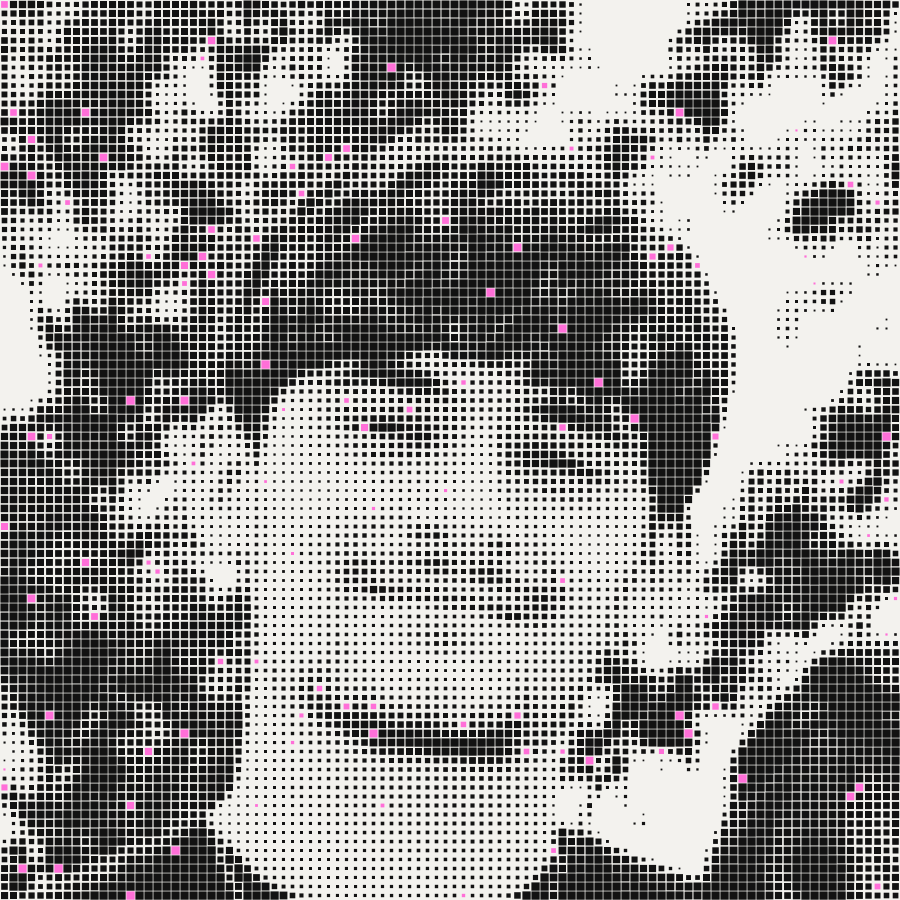
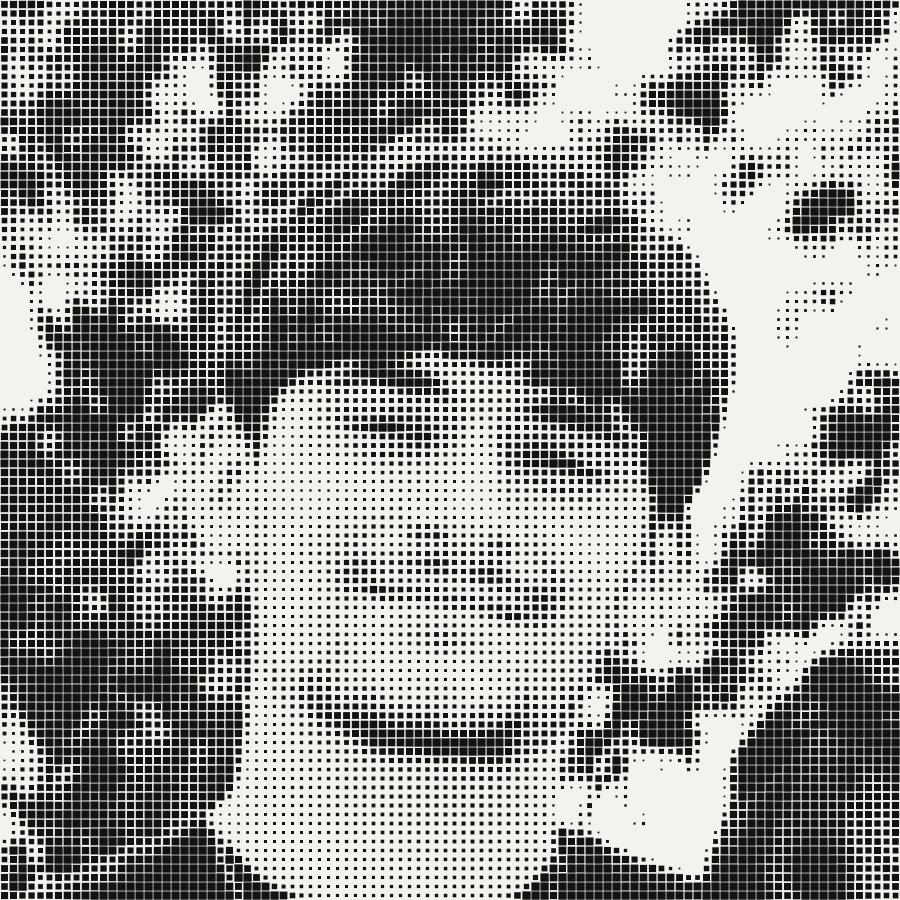
Cursor propio (píxel que se vuelve la O sobre lo que se toca, solo con mouse) y puntitos rosas que se mueven en los retratos de Nosotros

diff --git a/src/motion/cursor.ts b/src/motion/cursor.ts
@@ -1,0 +1,48 @@
+/**
+ * El cursor de Roda: un píxel de tinta (el cuadradito del video) que sigue al mouse con un poco de inercia.
+ * Sobre links y botones se convierte en la O del logo (un anillo); al apretar se achica un poco.
+ * En los campos de texto vuelve el cursor de siempre, para escribir.
+ * Solo con mouse: en celulares y pantallas táctiles no existe. Sin movimiento, sigue al mouse sin demora.
+ * Se mueve con transform (nada de top/left) y se dibuja en modo diferencia, así se ve sobre fotos claras y oscuras.
+ */
+const INTERACTIVO = 'a[href], button, [role="button"], [role="radio"], [role="checkbox"], [role="switch"], summary, label, [data-cursor="anillo"], .tarjeta, .panel';
+const TEXTO = 'input:not([type="radio"]):not([type="checkbox"]), textarea, select, [contenteditable="true"]';
+
+let listo = false;
+export const iniciarCursor = () => {
+  if (listo || !matchMedia('(hover: hover) and (pointer: fine)').matches) return;
+  listo = true;
+  const quieto = matchMedia('(prefers-reduced-motion: reduce)').matches;
+
+  const cursor = document.createElement('div');
+  cursor.className = 'cursor-roda';
+  cursor.setAttribute('aria-hidden', 'true');
+  cursor.innerHTML = '<span class="cursor-pixel"></span><span class="cursor-anillo"></span>';
+  document.body.appendChild(cursor);
+  document.documentElement.classList.add('con-cursor');
+
+  let x = -100, y = -100, cx = -100, cy = -100, cuadro = 0, visto = false;
+  const pintar = () => {
+    // Inercia: cada cuadro recorre una parte del camino que falta (sin movimiento, llega de una)
+    cx += (x - cx) * (quieto ? 1 : 0.28);
+    cy += (y - cy) * (quieto ? 1 : 0.28);
+    cursor.style.transform = `translate3d(${cx}px, ${cy}px, 0)`;
+    cuadro = Math.abs(x - cx) + Math.abs(y - cy) > 0.1 ? requestAnimationFrame(pintar) : 0;
+  };
+
+  addEventListener('pointermove', (e) => {
+    if (e.pointerType !== 'mouse') return;
+    x = e.clientX; y = e.clientY;
+    if (!visto) { visto = true; cx = x; cy = y; cursor.classList.add('visible'); }
+    const el = e.target as Element | null;
+    const sobreTexto = !!el?.closest?.(TEXTO);
+    cursor.classList.toggle('escribiendo', sobreTexto);
+    cursor.classList.toggle('sobre', !sobreTexto && !!el?.closest?.(INTERACTIVO));
+    if (!cuadro) cuadro = requestAnimationFrame(pintar);
+  }, { passive: true });
+  addEventListener('pointerdown', () => cursor.classList.add('apretado'), { passive: true });
+  addEventListener('pointerup', () => cursor.classList.remove('apretado'), { passive: true });
+  // Si el mouse sale de la ventana, el cursor se va con él
+  document.addEventListener('pointerleave', () => cursor.classList.remove('visible'));
+  document.addEventListener('pointerenter', () => { if (visto) cursor.classList.add('visible'); });
+};

diff --git a/src/styles/global.css b/src/styles/global.css
@@ -245,3 +245,23 @@ html.scrolleando .tira, html.scrolleando .cartelera, html.scrolleando .etiquetas
 }
 .saltar:focus-visible { transform: none; }
 main:focus { outline: none; }
+
+/* ── El cursor de Roda (src/motion/cursor.ts): solo con mouse ─────────── */
+html.con-cursor, html.con-cursor * { cursor: none !important; }
+html.con-cursor :is(input:not([type="radio"]):not([type="checkbox"]), textarea, [contenteditable="true"]) { cursor: text !important; }
+.cursor-roda {
+  position: fixed; left: 0; top: 0; z-index: 9999; pointer-events: none;
+  /* En modo diferencia: blanco sobre papel se ve tinta, y sobre una foto oscura se ve claro */
+  mix-blend-mode: difference; opacity: 0; transition: opacity 200ms ease;
+}
+.cursor-roda.visible { opacity: 1; }
+.cursor-roda.escribiendo { opacity: 0; }
+.cursor-pixel, .cursor-anillo { position: absolute; display: block; transition: transform 220ms var(--ease-ui), opacity 160ms ease; }
+.cursor-pixel { width: 10px; height: 10px; margin: -5px 0 0 -5px; background: #fff; }
+/* La O del logo: el anillo con el mismo grosor relativo que la O de R○DA */
+.cursor-anillo { width: 46px; height: 46px; margin: -23px 0 0 -23px; border: 8px solid #fff; border-radius: 50%; opacity: 0; transform: scale(0.5); }
+.cursor-roda.sobre .cursor-pixel { opacity: 0; transform: scale(0.4); }
+.cursor-roda.sobre .cursor-anillo { opacity: 1; transform: scale(1); }
+.cursor-roda.apretado .cursor-pixel { transform: scale(0.7); }
+.cursor-roda.sobre.apretado .cursor-anillo { transform: scale(0.82); }
+@media (prefers-reduced-motion: reduce) { .cursor-pixel, .cursor-anillo { transition: opacity 120ms ease; } }
